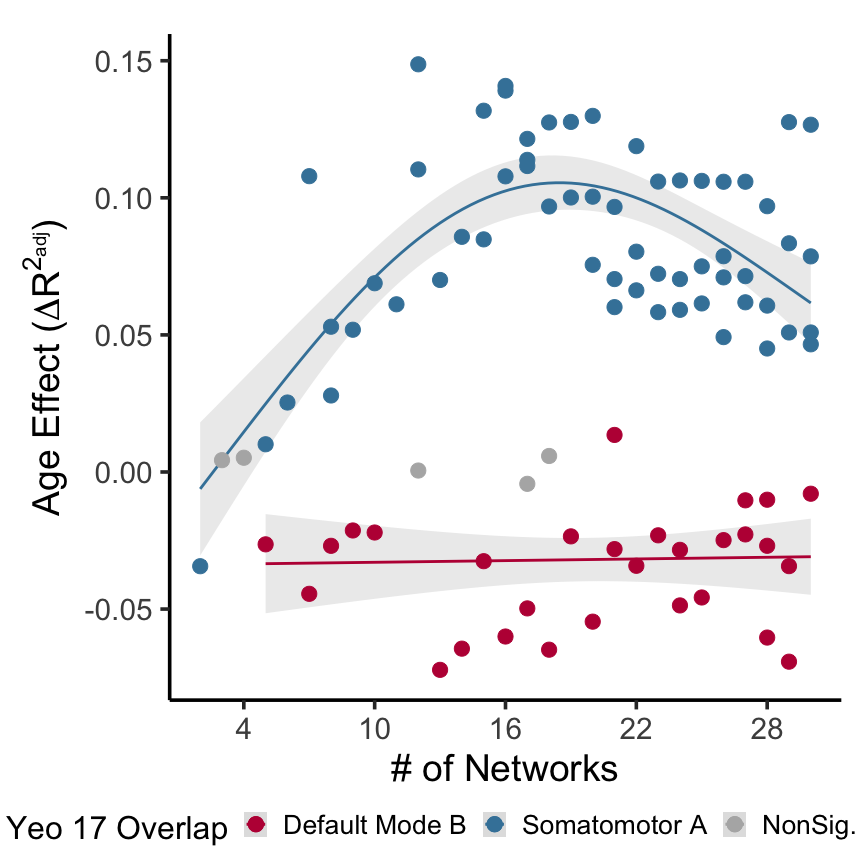
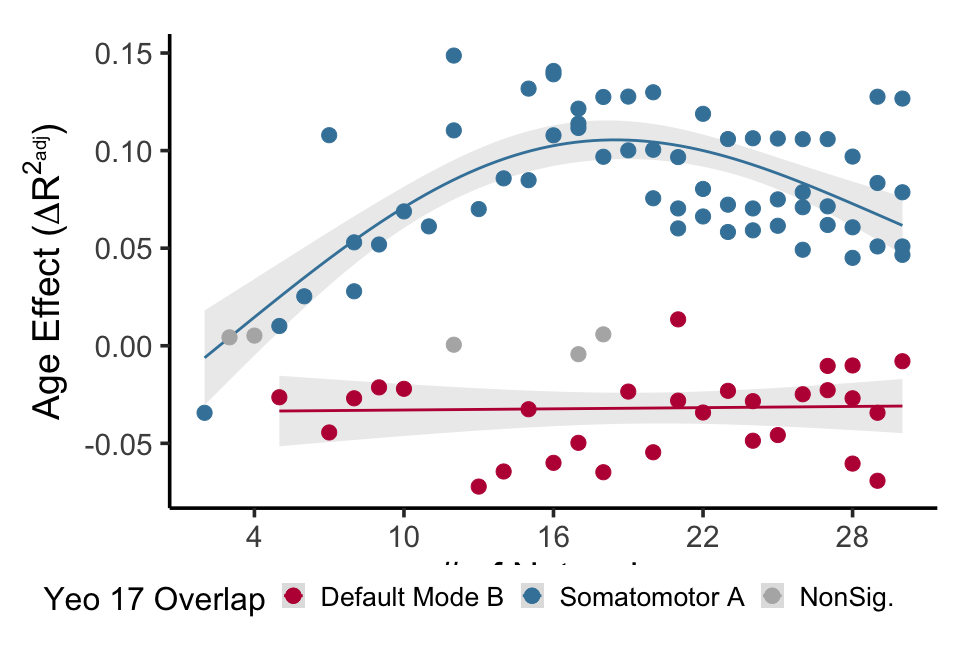
figure 3 estimated b/w intercept and age effect slopes

diff --git a/scripts/viz/overlay_overscales_effects_onto_fsaverageDeriv.m b/scripts/viz/overlay_overscales_effects_onto_fsaverageDeriv.m
@@ -1,21 +1,20 @@
 
-
+% get the tools
 addpath(genpath('/cbica/projects/pinesParcels/multiscale/scripts/derive_parcels/Toolbox'));
+% load in hand-off network-level age effect derivative vectors from R
 vecsfp='/cbica/projects/pinesParcels/results/EffectVecs';
-%vecs=dir([vecsfp '/*mSeg.csv']);
-%uncomment to switch to meanSegreg
-% _i is for individualized, added to look at individ. vs gro. partition effect differences
-% _g for group partitions
+% change between 10, 16, and 21 in the next two rows to run on various agepoints
 vecs=dir([vecsfp '/Deriv16yoAt*']);
-% name
 effectname='Deriv16yoAt'
-% first two are . and ..
+% get size of vectors
 sizevecs=size(vecs);
 for i=1:sizevecs(1)
 	% i + 1 because 1:29 files but 2:30 scales
 	scale=i+1;
-	% have to manually reconstruct the name bc bash stores as 10 first
+	% have to manually reconstruct the name bc bash stores files in its own order
 	fn=[effectname num2str(scale)];
+	% make a cell structure for matlab visualization function
 	effCellStruct{i}=load([vecsfp '/' fn]);
 end
+% run matlab visualization function for network-level age effect derivatives averaged over scales
 PBP_effect_msOverlay_2View_R_lPFC(effCellStruct,effectname);

diff --git a/scripts/viz/overlay_overscales_effects_onto_fsaverage_intercept.m b/scripts/viz/overlay_overscales_effects_onto_fsaverage_intercept.m
@@ -1,21 +1,18 @@
 
-
+% add toolbox path
 addpath(genpath('/cbica/projects/pinesParcels/multiscale/scripts/derive_parcels/Toolbox'));
 vecsfp='/cbica/projects/pinesParcels/results/EffectVecs';
-%vecs=dir([vecsfp '/*mSeg.csv']);
-%uncomment to switch to meanSegreg
-% _i is for individualized, added to look at individ. vs gro. partition effect differences
-% _g for group partitions
-vecs=dir([vecsfp '/BW_InterceptAt*']);
+% add R-printout estimated b/w intercepts at each age - replace At10 with At21 if estimate at 21 desired
+vecs=dir([vecsfp '/BW_InterceptAt10_k*']);
 % first two are . and ..
 sizevecs=size(vecs);
 for i=1:29
 	% i + 1 because 1:29 files but 2:30 scales
 	scale=i+1;
-	% have to manually reconstruct the name bc bash stores as 10 first
-	fn=['BW_InterceptAt' num2str(scale)];
+	% have to manually reconstruct the name bc bash stores as 10 first - same not as above applies, replace 10 if desired
+	fn=['BW_InterceptAt10_k' num2str(scale)];
 	effCellStruct{i}=load([vecsfp '/' fn]);
 end
-% name
-effectname='BW_InterceptAt'
+% name of printed brainmap
+effectname='Name'
 PBP_effect_msOverlay_2View(effCellStruct,effectname);
